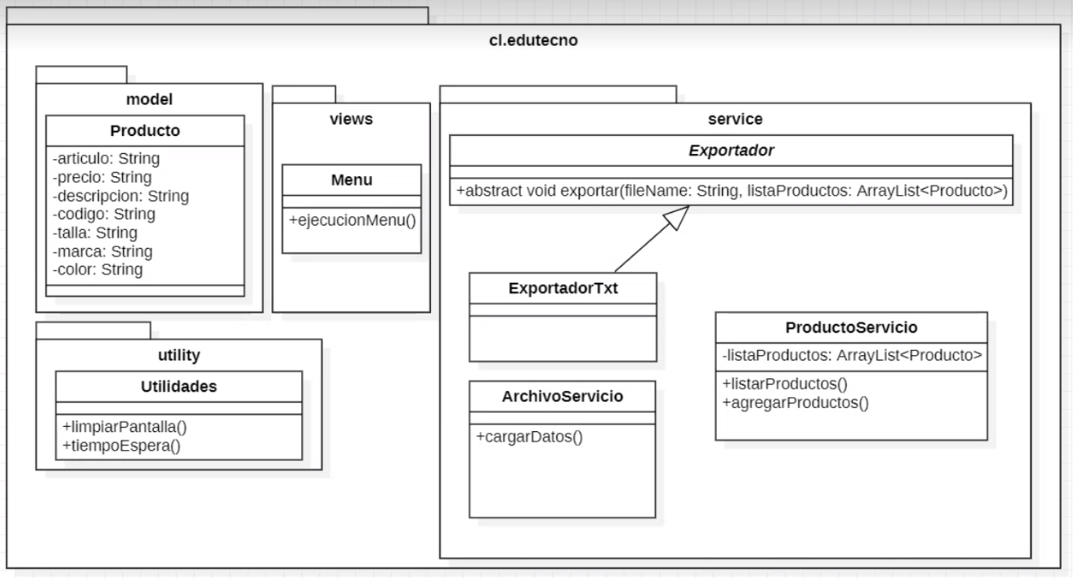
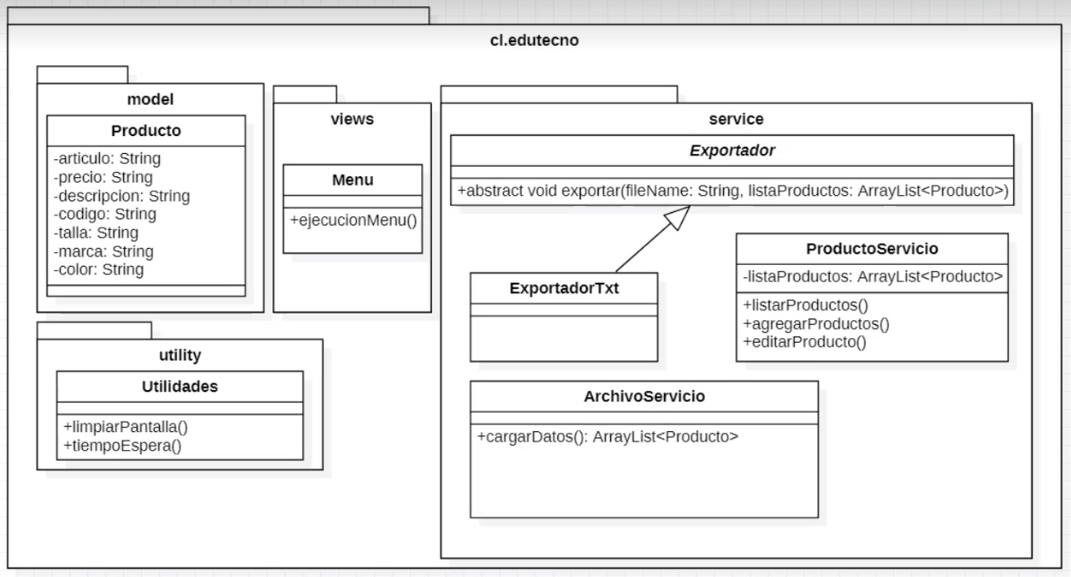
List and push products ready

diff --git a/2.-DESAFIOS/3.-FUNDAMENTOS-PROGRAMACION-JAVA/6.-ORIENTACION-A-OBJETOS-II/ReciclaJeans/src/cl/reciclaJeans/service/ProductoServicio.java b/2.-DESAFIOS/3.-FUNDAMENTOS-PROGRAMACION-JAVA/6.-ORIENTACION-A-OBJETOS-II/ReciclaJeans/src/cl/reciclaJeans/service/ProductoServicio.java
@@ -1,15 +1,18 @@
 package cl.reciclaJeans.service;
-// Generar una clase cl.reciclaJeans.service.ProductoServicio que contendrá una ArrayList llamada
-// listaProductos, con su respectivo getters y setters. Además, esta clase debe contar
-// con el siguiente método y su respectiva aplicación:
-//     ● listarProductos.
 
 import cl.reciclaJeans.model.Producto;
 
 import java.util.ArrayList;
+import java.util.Scanner;
 
 public class ProductoServicio {
-    ArrayList<Producto> listaProductos = new ArrayList<>();
+    // Generar una clase ProductoServicio que contendrá una ArrayList llamada listaProductos, con su respectivo getters y setters. Además, esta clase debe contar con el siguiente método y su respectiva aplicación:
+    //     ● listarProductos.
+    private ArrayList<Producto> listaProductos;
+
+    public ProductoServicio() {
+        listaProductos = new ArrayList<>();
+    }
 
     public ArrayList<Producto> getListaProductos() {
         return listaProductos;
@@ -21,5 +24,52 @@ public class ProductoServicio {
 
     public void listarProductos(){
         // CODE HERE
+        if ( this.getListaProductos().size() != 0 ) {
+            System.out.println("Productos disponibles: ");
+            for (Producto producto : listaProductos) {
+                System.out.println(producto.toString());
+            }
+        } else {
+            System.out.println("+-----------------------------+");
+            System.out.println("|           No hay            |");
+            System.out.println("|   productos disponibles.    |");
+            System.out.println("+-----------------------------+");
+        }
+    }
+
+    public void agregarProducto() {
+        // Code here
+        //Producto(String articulo, String precio, String descripcion, String codigo, String talla, String marca, String color)
+        Scanner sc = new Scanner(System.in);
+        String articulo, precio, descripcion, codigo, talla, marca, color;
+
+        System.out.println("+-----------------------------+");
+        System.out.println("|       Agregar Producto      |");
+        System.out.println("+-----------------------------+");
+        System.out.println("Ingresar nombre articulo: ");
+        articulo = sc.nextLine();
+
+        System.out.println("Ingresa precio:");
+        precio = sc.nextLine();
+
+        System.out.println("Ingresa descripción:");
+        descripcion = sc.nextLine();
+
+        System.out.println("Ingresa código:");
+        codigo = sc.nextLine();
+
+        System.out.println("Ingresa talla:");
+        talla = sc.nextLine();
+
+        System.out.println("Ingresa marca:");
+        marca = sc.nextLine();
+
+        System.out.println("Ingresa color:");
+        color = sc.nextLine();
+
+        listaProductos.add(new Producto(articulo, precio, descripcion, codigo, talla, marca, color));
+        System.out.println("+-----------------------------------+");
+        System.out.println("|   Producto registrado con exito!  |");
+        System.out.println("+-----------------------------------+");
     }
 }

diff --git a/2.-DESAFIOS/3.-FUNDAMENTOS-PROGRAMACION-JAVA/6.-ORIENTACION-A-OBJETOS-II/ReciclaJeans/src/cl/reciclaJeans/views/Menu.java b/2.-DESAFIOS/3.-FUNDAMENTOS-PROGRAMACION-JAVA/6.-ORIENTACION-A-OBJETOS-II/ReciclaJeans/src/cl/reciclaJeans/views/Menu.java
@@ -1,0 +1,61 @@
+package cl.reciclaJeans.views;
+// Crear una clase Menu que contendrá un menú similar al que vemos a continuación,
+// recordar que debemos generar todas las instancias de scanner en esta clase.
+/*
+    1 Listar Producto
+    2 Agregar Producto
+    3 Exportar Datos
+    4 Salir
+    Ingrese una opción:
+*/
+
+import cl.reciclaJeans.service.ProductoServicio;
+
+import java.util.Scanner;
+
+public class Menu {
+    public void ejecutarMenu() {
+        // CODE HERE
+        ProductoServicio productoServicio = new ProductoServicio();
+        Scanner sc = new Scanner(System.in);
+        String userOption = null;
+        do {
+            System.out.println();
+            System.out.println("+-----------------------------+");
+            System.out.println("|  Bienvenido a ReciclaJeans  |");
+            System.out.println("+-----------------------------+");
+            System.out.println("|   1 Listar Producto         |");
+            System.out.println("|   2 Agregar Producto        |");
+            System.out.println("|   3 Exportar Datos          |");
+            System.out.println("|   4 Salir                   |");
+            System.out.println("+-----------------------------+");
+            System.out.println();
+            System.out.print("Elija una opcion: ");
+            userOption = sc.nextLine();
+
+            switch (userOption) {
+                case "1":
+                    // Code to print list of products.
+                    productoServicio.listarProductos();
+                    break;
+                case "2":
+                    // Code to add product to list of products.
+                    productoServicio.agregarProducto();
+                    break;
+                case "3":
+                    // Code to export data.
+                    break;
+                case "4":
+                    // Code to exit to the program.
+                    System.out.println("+-----------------------------+");
+                    System.out.println("|   Hasta pronto!             |");
+                    System.out.println("|   Saliendo del programa...  |");
+                    System.out.println("+-----------------------------+");
+                    break;
+                default:
+                    System.out.println("Ha elegido una opcion no valida.");
+                    break;
+            }
+        } while (!userOption.equals("4"));
+    }
+}

diff --git a/2.-DESAFIOS/3.-FUNDAMENTOS-PROGRAMACION-JAVA/6.-ORIENTACION-A-OBJETOS-II/ReciclaJeans/src/cl/reciclaJeans/service/ArchivoServicio.java b/2.-DESAFIOS/3.-FUNDAMENTOS-PROGRAMACION-JAVA/6.-ORIENTACION-A-OBJETOS-II/ReciclaJeans/src/cl/reciclaJeans/service/ArchivoServicio.java
@@ -1,7 +1,10 @@
 package cl.reciclaJeans.service;
-// Generar una clase cl.reciclaJeans.service.ArchivoServicio para hacer la carga de datos externos. Crear el
+// Generar una clase ArchivoServicio para hacer la carga de datos externos. Crear el
 // método cargarDatos() y generar aquellos códigos que nos ayuden a importar la lista
 // de productos desde un archivo “ProductosImportados.csv”.
 
 public class ArchivoServicio {
+    public void cargarDatos() {
+        // CODE HERE TO IMPORT PRODUCT LIST FROM CSV FILE.
+    }
 }

diff --git a/2.-DESAFIOS/3.-FUNDAMENTOS-PROGRAMACION-JAVA/6.-ORIENTACION-A-OBJETOS-II/ReciclaJeans/src/cl/reciclaJeans/main/Main.java b/2.-DESAFIOS/3.-FUNDAMENTOS-PROGRAMACION-JAVA/6.-ORIENTACION-A-OBJETOS-II/ReciclaJeans/src/cl/reciclaJeans/main/Main.java
@@ -1,0 +1,15 @@
+package cl.reciclaJeans.main;
+
+import cl.reciclaJeans.views.Menu;
+
+public class Main {
+    public static void main(String[] args) {
+        Menu menu = new Menu();
+
+        try {
+            menu.ejecutarMenu();
+        } catch (Exception e) {
+            e.printStackTrace();
+        }
+    }
+}
